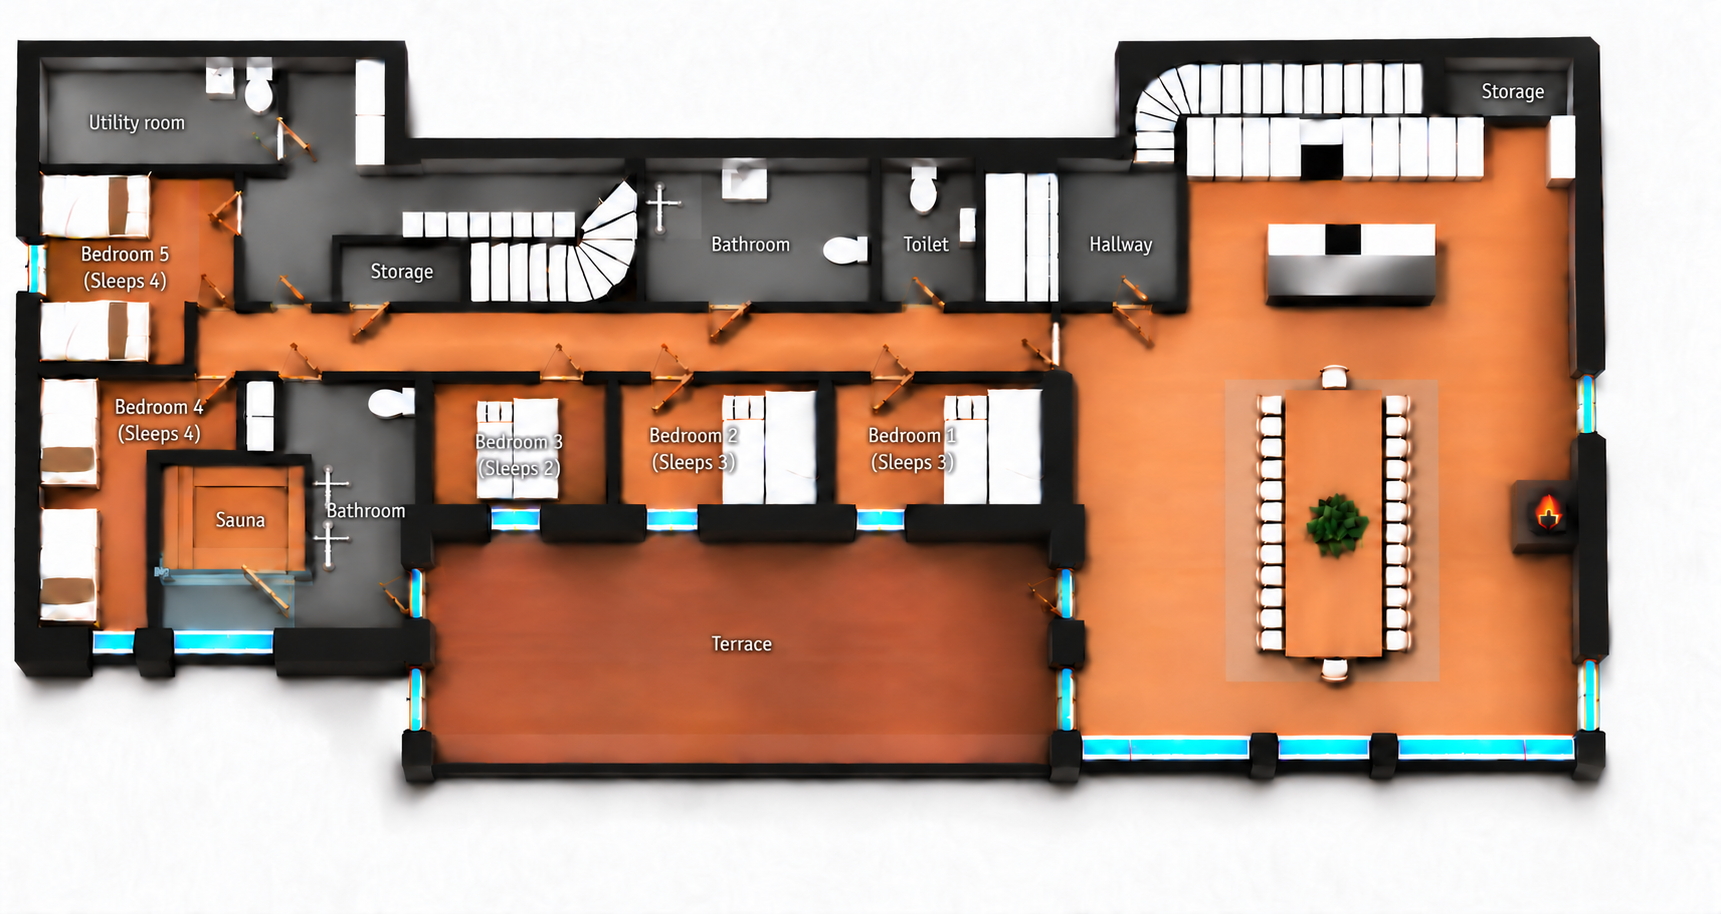
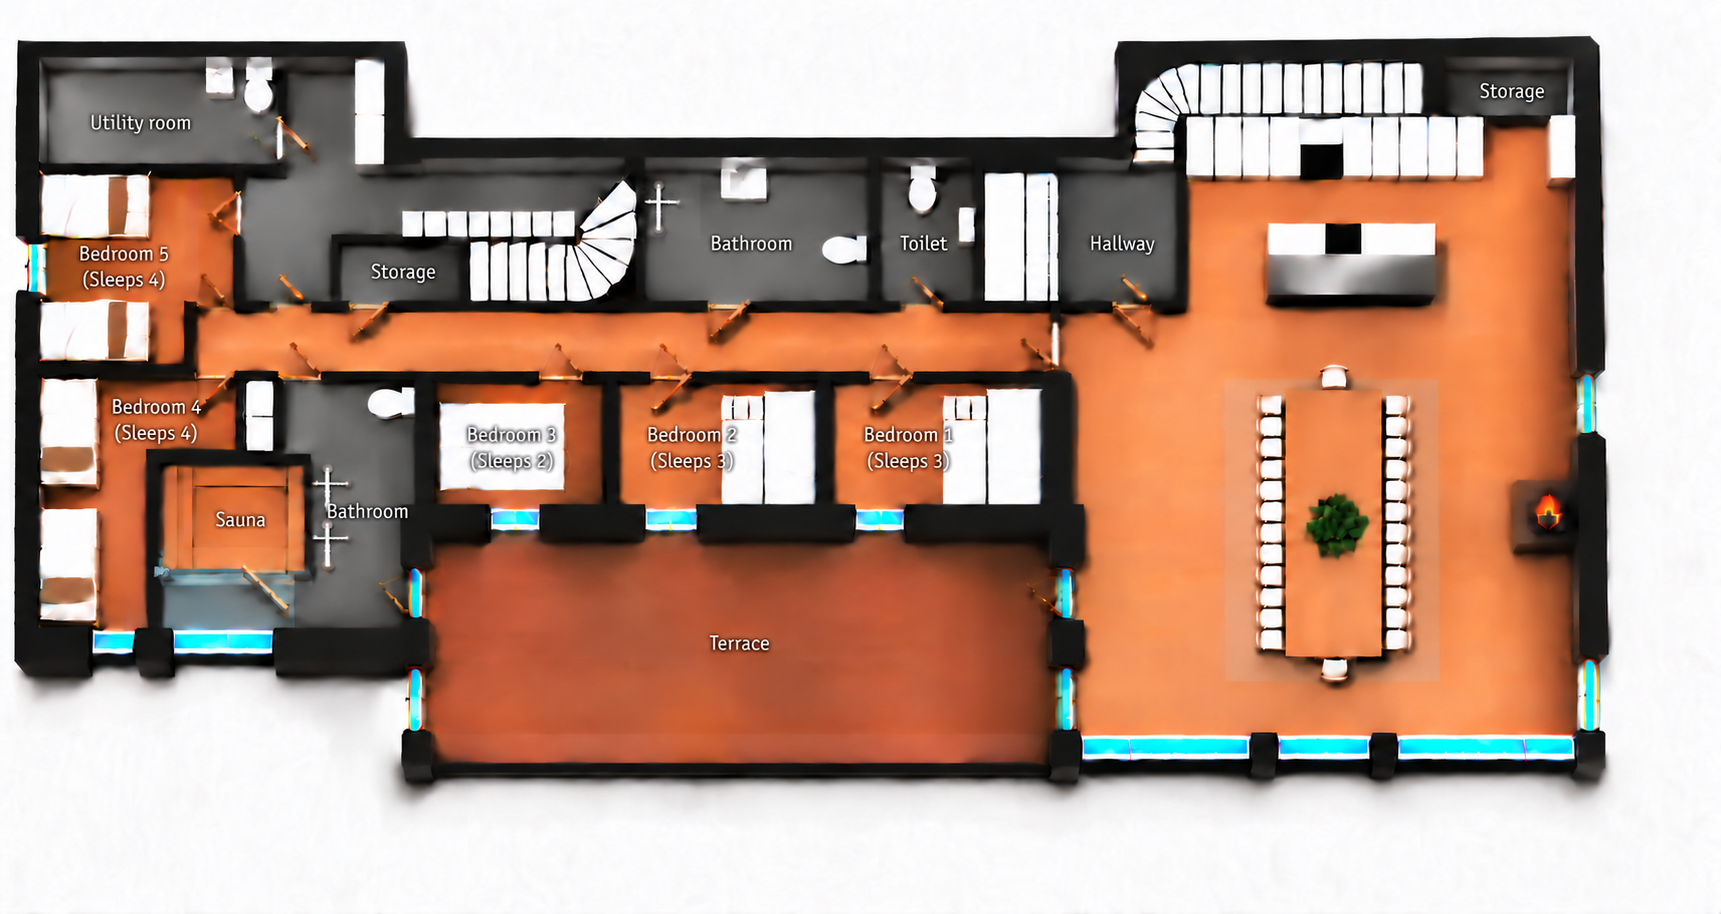
Keep bedroom three double bed design with subtle size adjustment

diff --git a/docs/floor-plans.md b/docs/floor-plans.md
@@ -1,5 +1,45 @@
 # Three floor plans
 
+Final English text cleanup used exec-a25ba29a-1956-40bd-a3f2-a4e56afc9a1a.png as input; selected output exec-ed5e22dc-1349-4499-a8e8-3db265238a84.png replaces floor-plan-lower-en.png to remove a stray parenthesis. Exact built-in edit prompt:
+```text
+Text correction ONLY on supplied English floorplan. Bedroom3 label contains an extra stray closing parenthesis to the right. It must read EXACTLY two lines: 'Bedroom 3' and '(Sleeps 2)' with ONE closing parenthesis only. Remove stray extra ')' to right of that label, restore underlying bed/floor tiny area. Keep font/size/position unchanged. Preserve ALL other pixels/content/geometry, especially Bedroom3 horizontal double bed's current slightly narrower and slightly shorter proportions, all rooms, windows, sauna glass, chairs, other labels, full canvas. No other changes.
+```
+
+
+## Bedroom 3: tiny additional length reduction, 30 October 2026
+
+Final English output `exec-a25ba29a-1956-40bd-a3f2-a4e56afc9a1a.png` saved to `public/images/floor-plan-lower-en.png`. Both final complete drawings visually inspected.
+
+Owner then requested a little shorter as well. Retained the horizontal two-person double-bed design and slight width reduction, shortening the long axis by only approximately5percent. Built-in imagegen edit from exec-4e1ab24e-5dc8-4e5d-878d-829012b8ac67.png. Final Norwegian asset: public/images/floor-plan-lower.png from exec-4eaaf5bf-2877-406d-a475-6347532eecd1.png.
+
+Exact Norwegian prompt:
+```text
+Use case: precise-object-edit. Edit only the horizontal white DOUBLE BED in Bedroom3/Soverom3 on this full lower-floor plan. Keep its current slightly narrower short-axis width, original horizontal orientation, white duvet design, and two-person double-bed identity. Owner now wants its LENGTH just a LITTLE shorter too: shorten long horizontal x-axis by ONLY5percent total (about7pixels on1721canvas), preserving center. Current x435..569 becomes aboutx439..565. Keep current y403..489 unchanged. This is a tiny adjustment, NOT a small single bed, NOT20percent, do not rotate. Keep all Norwegian labels including 'Soverom 3 (2 soveplasser)' exactly as supplied. All other beds, rooms, walls, windows, sauna glass, 26chairs, table, kitchen, stairs, door openings, materials, full canvas/resolution unchanged. No crop/resize/no other edits.
+```
+
+Exact English prompt:
+```text
+undefined
+```
+
+
+## Bedroom 3: original length and design, only narrower, 30 October 2026
+
+Selected English output: `exec-d8395d8a-6771-49f0-93a9-844c4a0565cf.png`, saved to `public/images/floor-plan-lower-en.png`; Norwegian saved to `public/images/floor-plan-lower.png`. Both outputs inspected at full-image view.
+
+Owner clarified that the bed must retain its original design and length, with only a slight reduction in width, still for two people. This supersedes the preceding 20-percent overall reduction. Built-in imagegen edit, using the pre-change Norwegian asset exec-5db4d45c-9f37-4359-abee-01e7fb3f2e07.png as source. Selected Norwegian output exec-4e1ab24e-5dc8-4e5d-878d-829012b8ac67.png. Loft mattress placement remains unchanged.
+
+Exact Norwegian prompt:
+```text
+Use case: precise-object-edit. EDIT TARGET is this ORIGINAL lower-floor plan before a mistaken bed alteration. Owner wants the bed in SOVEROM 3 / BEDROOM3 ONLY to be a LITTLE NARROWER, with SAME ORIGINAL DESIGN and SAME ORIGINAL LENGTH, still a TWO-PERSON DOUBLE BED. Preserve its current horizontal orientation, white bedding and original double-bed appearance. Original bed rectangle around x435..569,y394..504 in1721pxcanvas: keep its horizontal long axis/LENGTH from x435..569 UNCHANGED. Reduce only its short-axis WIDTH (vertical y dimension) gently, about12percent: y401..497 instead of394..504, centered in same place. Do NOT rotate it or turn it into the vertical bed style from rooms1/2. Do NOT shrink its length or make a small single bed. Keep original label 'Soverom 3 (2 soveplasser)' unchanged. Absolutely all other room geometry, beds, text, 26chairs, sauna glass, windows, doors and canvas unchanged. Only a slight narrowing of the original Bedroom3 double bed. Preserve full original resolution/framing; no crop/resize.
+```
+
+Exact English localisation prompt:
+```text
+undefined
+```
+
+
 ## Opposite-wall mattresses and smaller Bedroom 3 bed, 30 October 2026
 
 Selected English outputs: `exec-7b13d63e-3299-412e-bce3-7a7192b8a3e8.png` (loft) and `exec-227af95b-29ee-480b-8ff6-e5b3fc6d7c33.png` (lower), saved to the matching `public/images/floor-plan-*-en.png` assets. All four complete outputs visually inspected.
